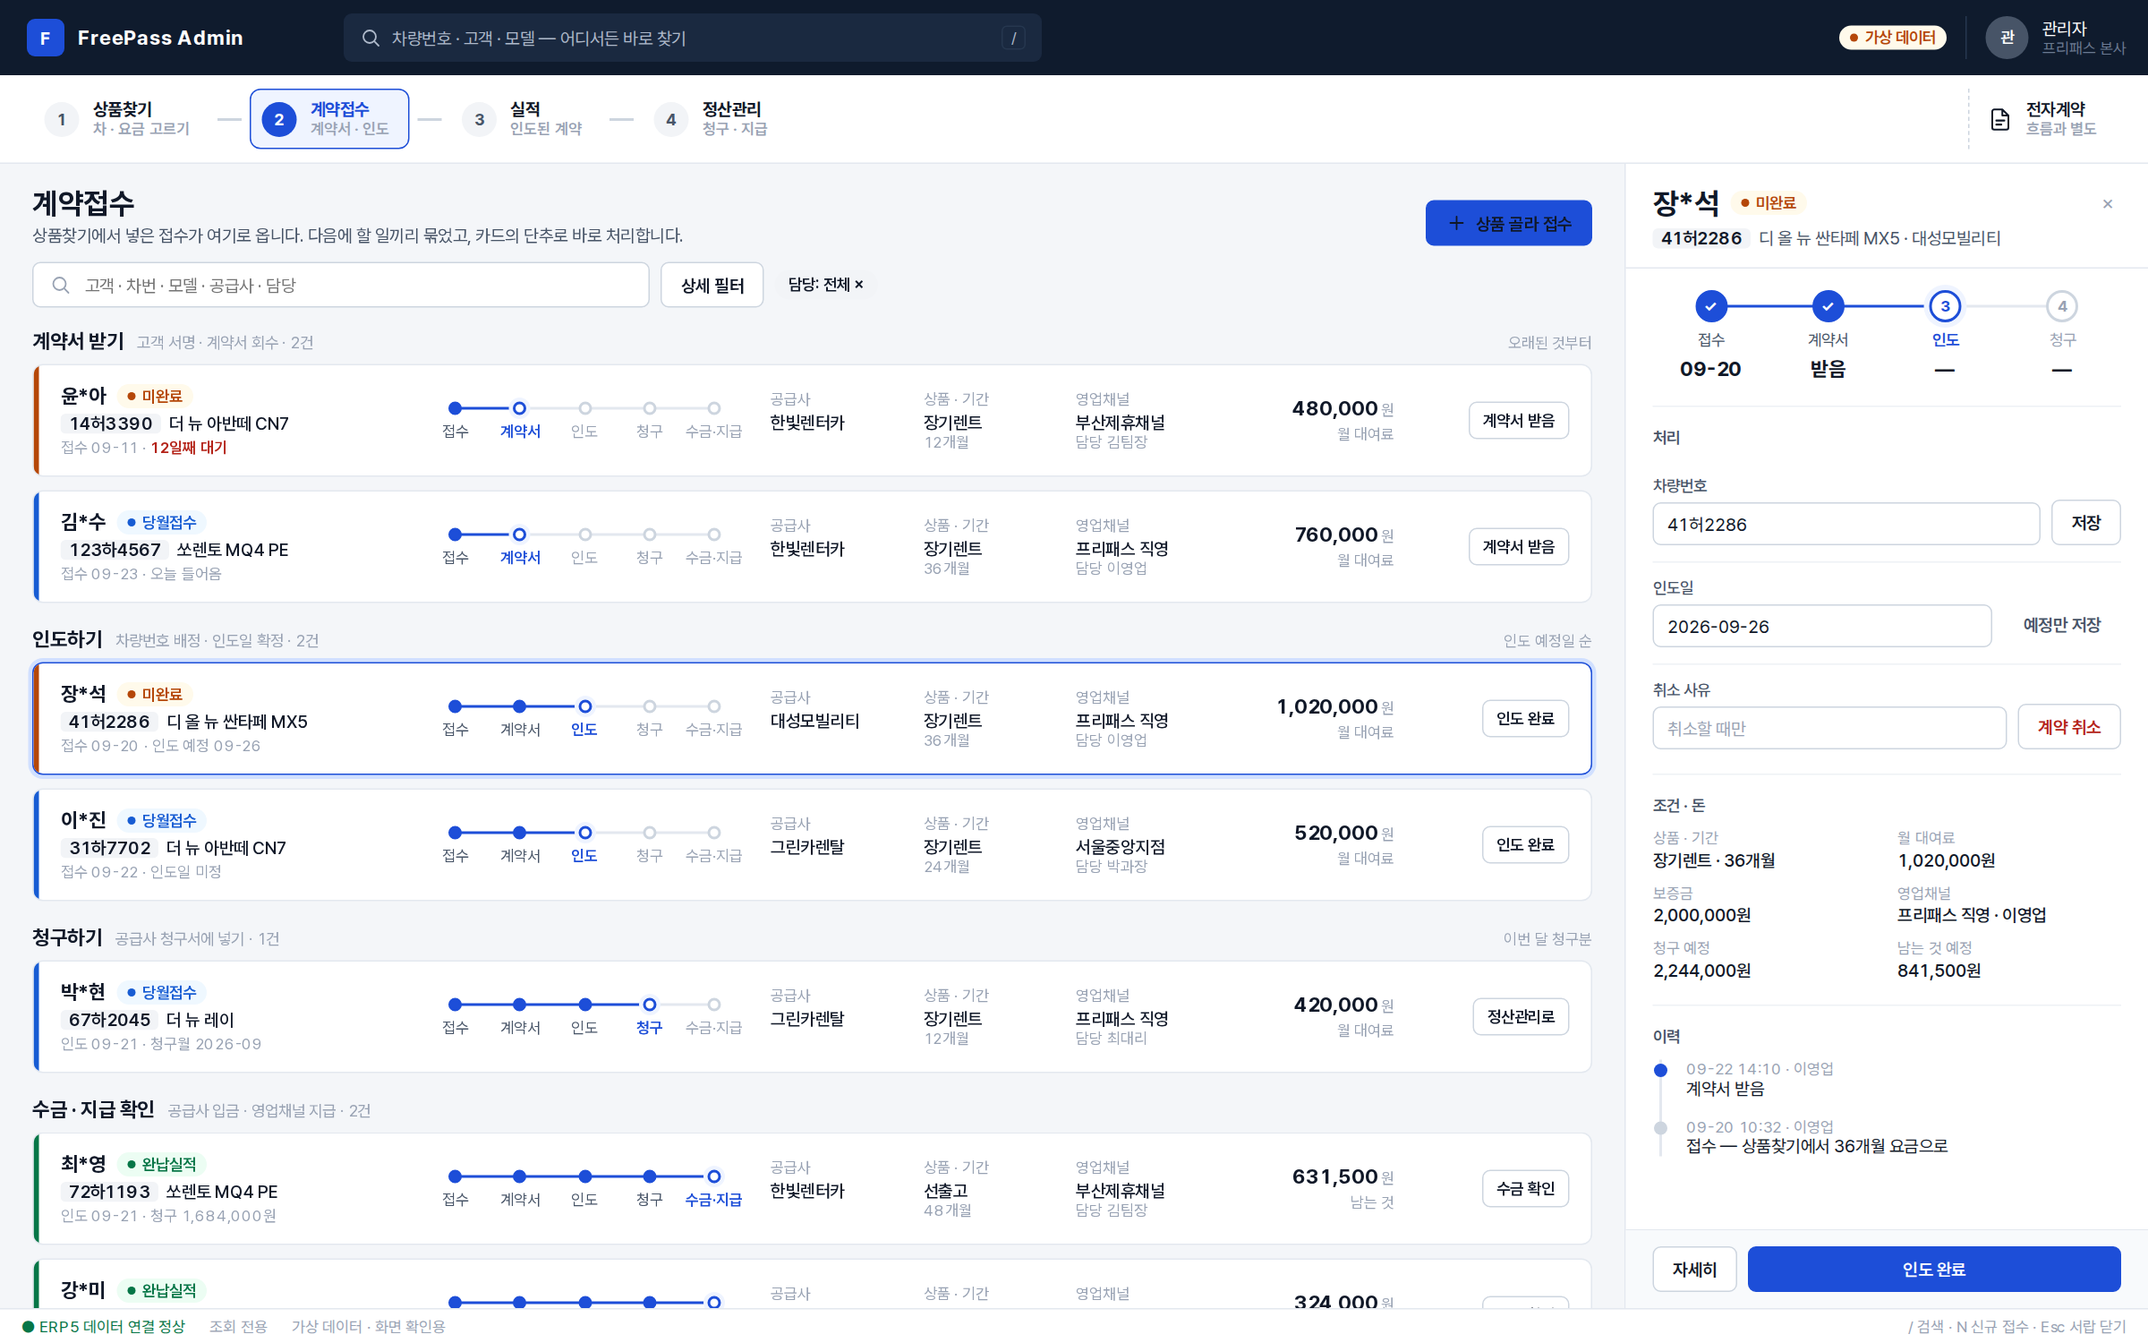
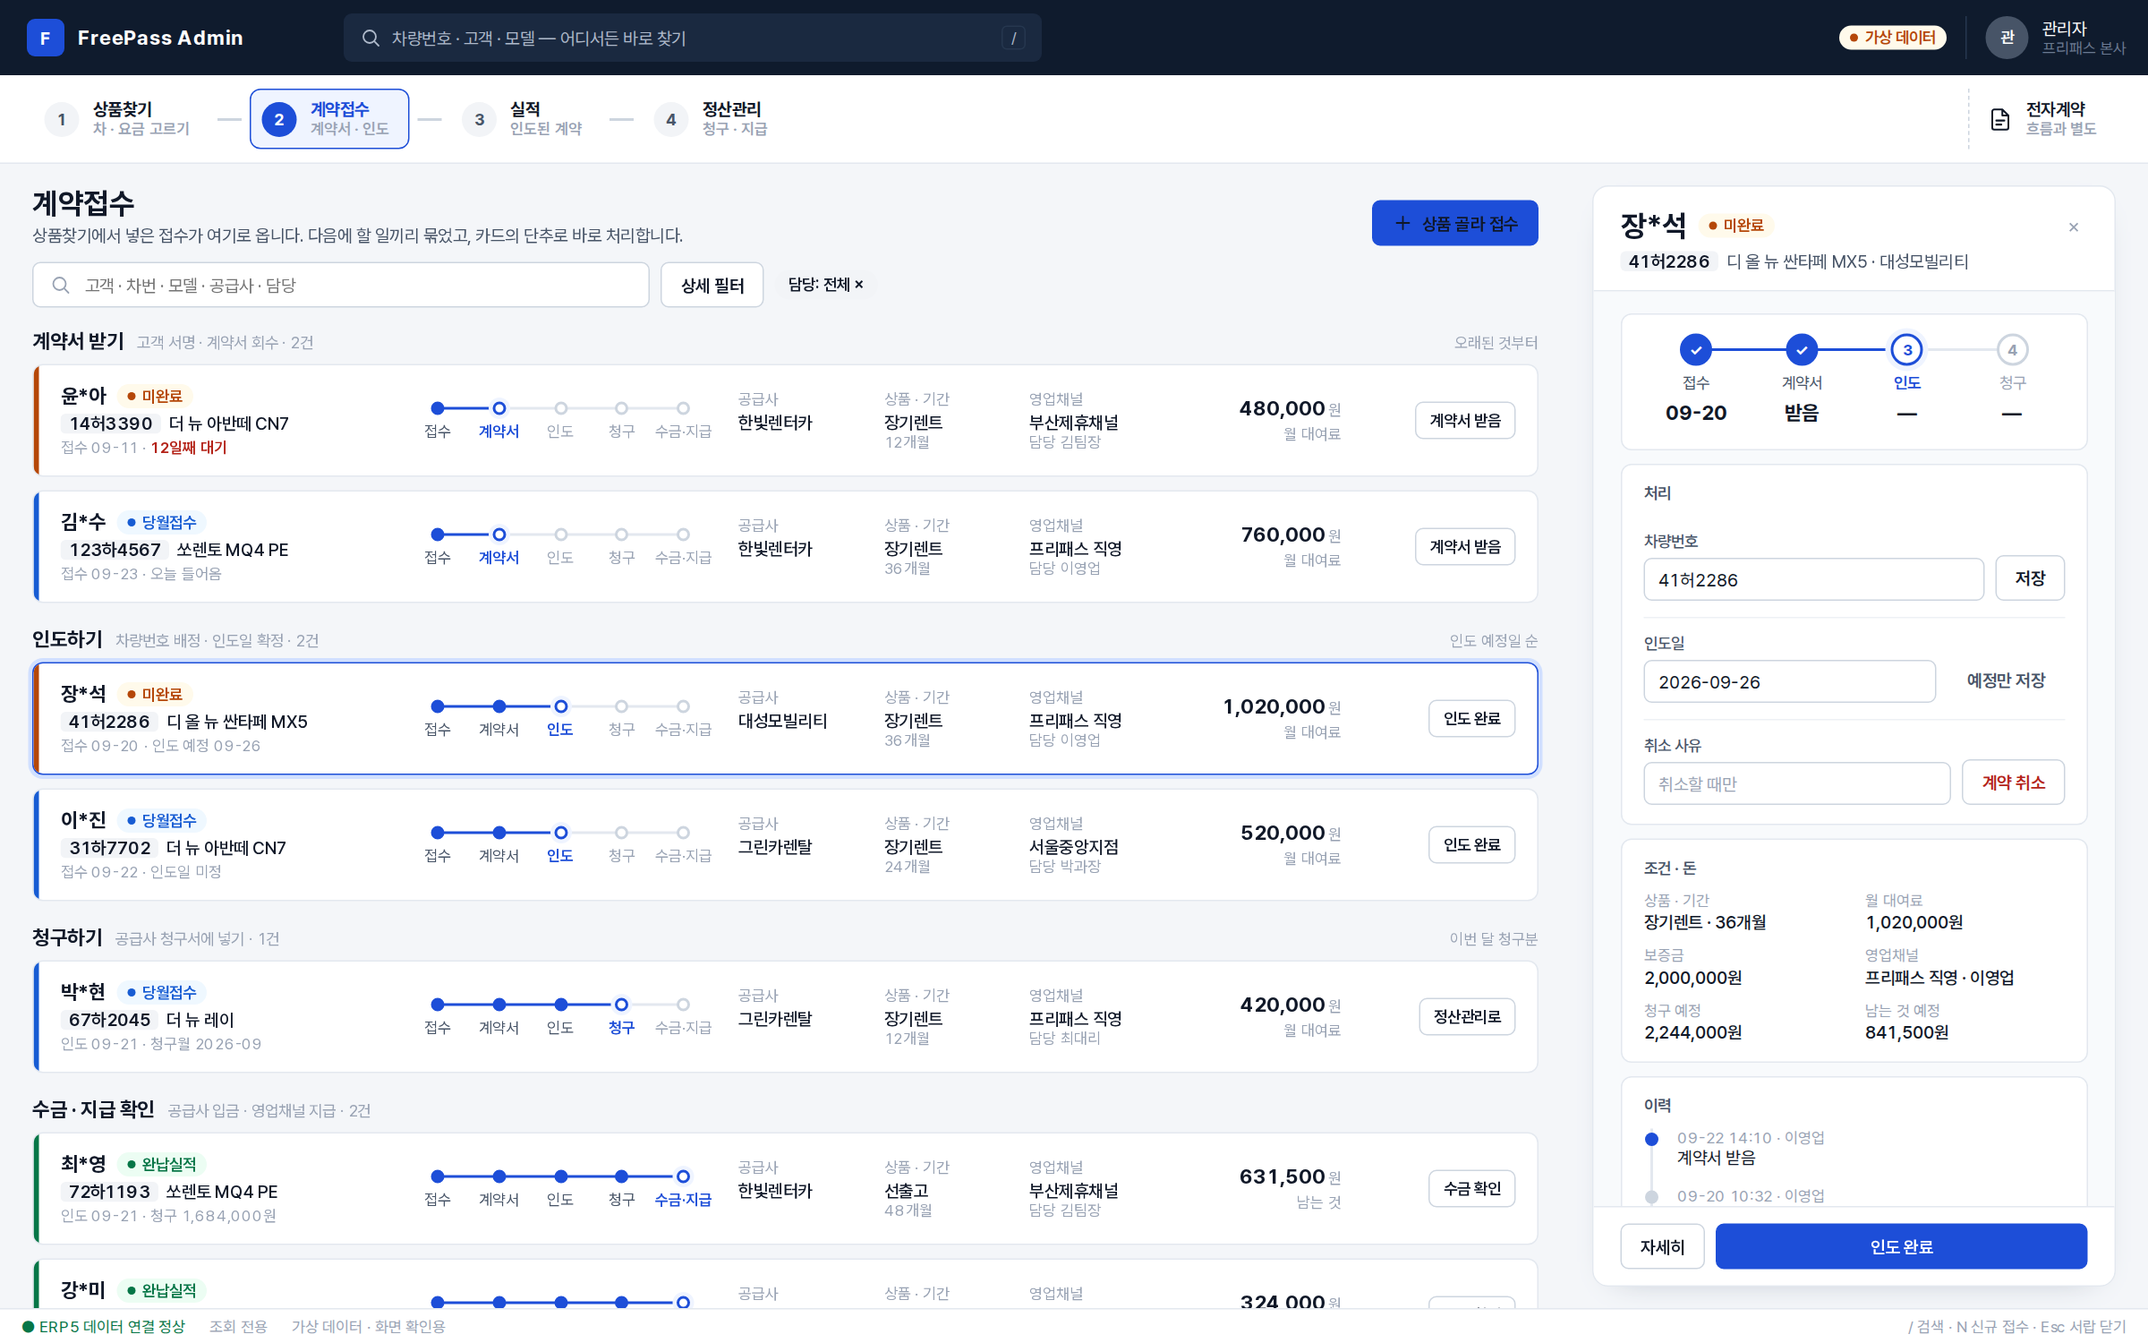
[Claude] 시안 C — 카드로 통일(칸 · 서랍 = 큰 카드, 정보 묶음 = 작은 카드), 폰 포함
Claude-Session: https://claude.ai/code/session_01VHqvSXhUy82o1cFFrYMP3F

diff --git a/design/erp-standard/proposals/admin-fit/index.html b/design/erp-standard/proposals/admin-fit/index.html
@@ -85,6 +85,7 @@
   <section class="fpa-col" aria-label="요금 고르기">
     <div class="fpa-col-head" data-state="done"><span class="fpa-col-no">✓</span><span><b>요금 고르기</b><small>기간을 누르면 그 요금이 접수로 간다</small></span></div>
     <div class="fpa-col-body">
+      <div class="fpa-card">
       <div class="fpa-photo"><svg viewBox="0 0 120 60" aria-hidden="true"><path d="M8 42h104M14 42l6-14c2-5 6-8 12-9l22-3c8-1 16 1 22 6l12 10 14 3c4 1 6 4 6 7M30 42a8 8 0 1 0 16 0M78 42a8 8 0 1 0 16 0M40 20l4 14h24l-6-15"/></svg></div>
       <h2 class="fpa-detail-name">쏘렌토 MQ4 PE <span class="erp-badge erp-badge--ok">즉시출고</span></h2>
       <p class="fpa-detail-sub"><b>123하4567</b>기아 · 시그니처 · 한빛렌터카</p>
@@ -94,15 +95,16 @@
         <div><dt>색상</dt><dd>스노우화이트펄 / 블랙</dd></div>
         <div><dt>상품구분</dt><dd>중고렌트</dd></div>
       </dl>
-      <div class="fpa-sec">
+      </div>
+      <div class="fpa-card">
         <p class="fpa-sec-title">기간별 요금 · 남는 것(청구 − 지급) — ERP5 수수료표로 미리 셈</p>
         <ul class="fpa-offers">
-          <li class="fpa-offer" aria-pressed="false"><b>24개월</b><span class="fpa-offer-sub"><span>보증금 없음 · 조건 밖(80만원 초과)</span><em>남는 것 412,000원</em></span><strong>820,000원</strong></li>
-          <li class="fpa-offer" aria-pressed="true"><b>36개월</b><span class="fpa-offer-sub"><span>보증금 없음 · 이 요금으로 접수</span><em>남는 것 631,500원<span class="erp-tag erp-tag--primary">가장 많이 남음</span></em></span><strong>760,000원</strong></li>
+          <li class="fpa-offer" aria-pressed="false"><b>24개월</b><span class="fpa-offer-sub"><span>보증금 없음 · 조건 밖</span><em>남는 것 412,000원</em></span><strong>820,000원</strong></li>
+          <li class="fpa-offer" aria-pressed="true"><b>36개월</b><span class="fpa-offer-sub"><span>보증금 없음 · 이 요금으로</span><em>남는 것 631,500원<span class="erp-tag erp-tag--primary">최고</span></em></span><strong>760,000원</strong></li>
           <li class="fpa-offer" aria-pressed="false"><b>48개월</b><span class="fpa-offer-sub"><span>보증금 없음</span><em>남는 것 588,000원</em></span><strong>720,000원</strong></li>
         </ul>
       </div>
-      <div class="fpa-sec">
+      <div class="fpa-card">
         <p class="fpa-sec-title">우대조건 · 정책</p>
         <span class="erp-tags"><span class="erp-tag erp-tag--primary">분납가능</span><span class="erp-tag erp-tag--primary">만21세</span><span class="erp-tag">사고 1회 · 경미</span></span>
       </div>
@@ -124,7 +126,8 @@
         </dl>
         <small>ERP5 수수료표 · 기준 월 대여료 · 남는 것 631,500원. 다르게 하려면 «더 넣기»에서 고침(사유).</small>
       </div>
-      <div class="fpa-form">
+      <div class="fpa-card fpa-form">
+        <p class="fpa-sec-title fpa-wide">고객 · 영업</p>
         <label class="erp-field fpa-wide fpa-suggest-wrap"><span class="erp-label">고객 <em class="erp-req">*</em></span><input class="erp-input erp-input--focus" value="김민"><ul class="fpa-suggest" role="listbox" aria-label="고객 찾기">
           <li role="option" aria-selected="true"><span><b>김민수</b><small>이전 접수 1건 · 2025-11 캐스퍼 · 프리패스 직영 · 이영업</small></span><kbd>Enter</kbd></li>
           <li role="option"><span><b>김민지</b><small>이전 접수 1건 · 2026-03 더 뉴 레이 · 서울중앙지점 · 박과장</small></span></li>
@@ -137,7 +140,7 @@
         <label class="erp-field fpa-wide"><span class="erp-label">계약방식</span><div class="erp-seg" role="group" aria-label="계약방식"><button type="button" aria-pressed="true">개인</button><button type="button" aria-pressed="false">개인사업자</button><button type="button" aria-pressed="false">법인</button></div></label>
         <div class="fpa-more"><b>+ 더 넣기</b> — 프로모션 · 계약서 받음 · 인도일 · 메모 (지금 몰라도 됩니다)</div>
       </div>
-      <ul class="fpa-checks" aria-label="저장 전 확인">
+      <ul class="fpa-card fpa-checks" aria-label="저장 전 확인">
         <li><span><b>123하4567</b> — 진행 중인 접수 없음 (중복 아님)</span></li>
         <li><span><b>36개월 760,000원</b> — ERP5 요금과 같음 · 09-23 10:02 기준</span></li>
         <li data-tone="warn"><span><b>분납가능</b> 차 — 분납으로 바꾸면 청구가 회차마다 나뉩니다</span></li>

diff --git a/design/erp-standard/proposals/admin-fit/phone.html b/design/erp-standard/proposals/admin-fit/phone.html
@@ -29,10 +29,10 @@
 <div><p class="fpa-phone-cap"><b>2</b>요금 고르기</p><div class="fpa-phone">
   <div class="fpa-phone-top"><span class="fpa-phone-back">‹ 목록</span> <b>쏘렌토 MQ4 PE</b><div class="fpa-dots"><span data-state="done">1 차</span><span aria-current="step">2 요금</span><span>3 접수</span></div></div>
   <div class="fpa-phone-body">
-    <div class="fpa-photo"><svg viewBox="0 0 120 60" aria-hidden="true"><path d="M8 42h104M14 42l6-14c2-5 6-8 12-9l22-3c8-1 16 1 22 6l12 10 14 3c4 1 6 4 6 7M30 42a8 8 0 1 0 16 0M78 42a8 8 0 1 0 16 0M40 20l4 14h24l-6-15"/></svg></div>
+    <div class="fpa-card"><div class="fpa-photo"><svg viewBox="0 0 120 60" aria-hidden="true"><path d="M8 42h104M14 42l6-14c2-5 6-8 12-9l22-3c8-1 16 1 22 6l12 10 14 3c4 1 6 4 6 7M30 42a8 8 0 1 0 16 0M78 42a8 8 0 1 0 16 0M40 20l4 14h24l-6-15"/></svg></div>
     <p class="fpa-detail-sub"><b>123하4567</b>기아 · 시그니처 · 한빛렌터카</p>
-    <dl class="erp-props"><div><dt>연식 · 주행</dt><dd>2024 · 12,100km</dd></div><div><dt>색상</dt><dd>스노우화이트펄</dd></div></dl>
-    <div class="fpa-sec"><p class="fpa-sec-title">기간별 요금 · 남는 것</p>
+    <dl class="erp-props"><div><dt>연식 · 주행</dt><dd>2024 · 12,100km</dd></div><div><dt>색상</dt><dd>스노우화이트펄</dd></div></dl></div>
+    <div class="fpa-card"><p class="fpa-sec-title">기간별 요금 · 남는 것</p>
     <ul class="fpa-offers">
       <li class="fpa-offer" aria-pressed="false"><b>24개월</b><span class="fpa-offer-sub"><em>남는 것 412,000</em></span><strong>820,000</strong></li>
       <li class="fpa-offer" aria-pressed="true"><b>36개월</b><span class="fpa-offer-sub"><em>남는 것 631,500</em></span><strong>760,000</strong></li>
@@ -46,13 +46,13 @@
   <div class="fpa-phone-body">
     <div class="fpa-picked"><div class="fpa-picked-top"><b>쏘렌토 · 36개월</b><span>자동</span></div><p>123하4567 · 한빛렌터카</p>
       <dl><div><dt>월 대여료</dt><dd>760,000원</dd></div><div><dt>남는 것</dt><dd>631,500원</dd></div></dl></div>
-    <div class="fpa-form">
+    <div class="fpa-card fpa-form">
       <label class="erp-field fpa-wide"><span class="erp-label">고객 <em class="erp-req">*</em></span><input class="erp-input" value="김민수"></label>
       <label class="erp-field"><span class="erp-label">영업채널 <em class="erp-req">*</em></span><span class="erp-input">프리패스 직영</span></label>
       <label class="erp-field"><span class="erp-label">담당 <em class="erp-req">*</em></span><span class="erp-input">이영업</span></label>
       <label class="erp-field fpa-wide"><span class="erp-label">결제</span><div class="erp-seg" role="group" aria-label="분납여부"><button type="button" aria-pressed="true">일시납</button><button type="button" aria-pressed="false">분납</button></div></label>
     </div>
-    <ul class="fpa-checks"><li><span><b>123하4567</b> 중복 없음</span></li><li><span>요금 ERP5 와 같음</span></li></ul>
+    <ul class="fpa-card fpa-checks"><li><span><b>123하4567</b> 중복 없음</span></li><li><span>요금 ERP5 와 같음</span></li></ul>
   </div>
   <div class="fpa-phone-bar"><button class="erp-btn" type="button">‹</button><button class="erp-btn erp-btn--primary" type="submit">접수 저장 · 필수 3/3</button></div>
 </div></div>

diff --git a/design/erp-standard/proposals/admin-fit/admin-fit.css b/design/erp-standard/proposals/admin-fit/admin-fit.css
@@ -213,3 +213,37 @@
 .fpa-phone-back { color: var(--erp-color-nav-text); font-size: var(--erp-fs-caption); }
 .fpa-save kbd { margin-left: 6px; padding: 0 5px; border: 1px solid var(--erp-color-on-primary); border-radius: var(--erp-r-sm); font-family: inherit; font-size: var(--erp-fs-caption); font-weight: var(--erp-fw-regular); opacity: .8; }
 .fpa-phones-page.erp-app { display: block; height: auto; min-width: 0; }
+
+/* ── 카드로 통일 (대표 2026-09-23 「카드타입으로 통일해봐」) ──
+ *   화면의 모든 덩어리 = 카드 한 장. 칸(① ② ③ · 서랍)은 바탕 위에 뜬 큰 카드, 칸 안의 정보 묶음(차 정보 · 요금 · 우대조건 ·
+ *   고객 · 확인 · 다음 걸음)은 우묵한 바탕 위의 작은 카드. 목록 카드와 같은 선 · 모서리 · 그림자를 쓴다. */
+.fpa-work { gap: var(--erp-sp-4); padding: var(--erp-sp-4) var(--erp-sp-6); background: var(--erp-color-bg); }
+.fpa-col, .fpa-col:first-child { border: 1px solid var(--erp-color-line); border-radius: calc(var(--erp-r-lg) * 1.5); background: var(--erp-color-surface); box-shadow: 0 8px 24px -18px var(--erp-color-text-3); overflow: visible; }
+.fpa-col-head { border-radius: calc(var(--erp-r-lg) * 1.5) calc(var(--erp-r-lg) * 1.5) 0 0; }
+.fpa-col + .fpa-col::before { left: -20px; }
+.fpa-col-body, .fpa-col:first-child .fpa-col-body { background: var(--erp-color-sunken); }
+.fpa-col .erp-searchbar { border-bottom: 1px solid var(--erp-color-line); }
+.fpa-save { border-radius: 0 0 calc(var(--erp-r-lg) * 1.5) calc(var(--erp-r-lg) * 1.5); background: var(--erp-color-surface); }
+.fpa-card { margin: 0 0 10px; padding: 14px var(--erp-sp-4); border: 1px solid var(--erp-color-line); border-radius: var(--erp-r-lg); background: var(--erp-color-surface); }
+.fpa-card:last-child { margin-bottom: 0; }
+.fpa-card .fpa-photo { height: 130px; }
+.fpa-card .fpa-detail-sub { margin-bottom: var(--erp-sp-3); }
+.fpa-form.fpa-card { margin-top: 10px; }
+.fpa-form .fpa-sec-title { margin: 0; }
+.fpa-picked { margin-bottom: 10px; }
+.fpa-checks.fpa-card { margin-top: 10px; padding: 10px 14px; }
+.fpa-next.fpa-card { margin-top: 10px; }
+.fpa-next li:last-child { border-bottom: 0; }
+.fpa-saved { margin-bottom: 0; }
+/* 계약접수 — 서랍도 뜬 카드, 서랍 안 묶음도 카드 */
+.fpa-main { gap: var(--erp-sp-4); padding-right: var(--erp-sp-6); }
+.fpa-drawer { margin: var(--erp-sp-4) 0; border: 1px solid var(--erp-color-line); border-radius: calc(var(--erp-r-lg) * 1.5); box-shadow: 0 8px 24px -18px var(--erp-color-text-3); overflow: hidden; }
+.fpa-drawer-body { background: var(--erp-color-sunken); }
+.fpa-drawer-body section, .fpa-drawer-body section + section { margin: 0 0 10px; padding: 14px var(--erp-sp-4); border: 1px solid var(--erp-color-line); border-radius: var(--erp-r-lg); background: var(--erp-color-surface); }
+.fpa-drawer-foot { background: var(--erp-color-surface); }
+.fpa-done { background: var(--erp-color-surface); border-style: solid; border-color: var(--erp-color-line); }
+/* 폰 — 같은 카드 */
+.fpa-phone-body { background: var(--erp-color-sunken); }
+.fpa-phone-body .fpa-card { padding: var(--erp-sp-3); }
+.fpa-col .erp-searchbar { flex-wrap: wrap; }
+.fpa-col .erp-search { flex: 1 1 100%; }

diff --git a/design/erp-standard/proposals/admin-fit/saved.html b/design/erp-standard/proposals/admin-fit/saved.html
@@ -85,6 +85,7 @@
   <section class="fpa-col" aria-label="요금 고르기">
     <div class="fpa-col-head" data-state="done"><span class="fpa-col-no">✓</span><span><b>요금 고르기</b><small>기간을 누르면 그 요금이 접수로 간다</small></span></div>
     <div class="fpa-col-body">
+      <div class="fpa-card">
       <div class="fpa-photo"><svg viewBox="0 0 120 60" aria-hidden="true"><path d="M8 42h104M14 42l6-14c2-5 6-8 12-9l22-3c8-1 16 1 22 6l12 10 14 3c4 1 6 4 6 7M30 42a8 8 0 1 0 16 0M78 42a8 8 0 1 0 16 0M40 20l4 14h24l-6-15"/></svg></div>
       <h2 class="fpa-detail-name">쏘렌토 MQ4 PE <span class="erp-badge erp-badge--ok">즉시출고</span></h2>
       <p class="fpa-detail-sub"><b>123하4567</b>기아 · 시그니처 · 한빛렌터카</p>
@@ -94,15 +95,16 @@
         <div><dt>색상</dt><dd>스노우화이트펄 / 블랙</dd></div>
         <div><dt>상품구분</dt><dd>중고렌트</dd></div>
       </dl>
-      <div class="fpa-sec">
+      </div>
+      <div class="fpa-card">
         <p class="fpa-sec-title">기간별 요금 · 남는 것(청구 − 지급) — ERP5 수수료표로 미리 셈</p>
         <ul class="fpa-offers">
-          <li class="fpa-offer" aria-pressed="false"><b>24개월</b><span class="fpa-offer-sub"><span>보증금 없음 · 조건 밖(80만원 초과)</span><em>남는 것 412,000원</em></span><strong>820,000원</strong></li>
-          <li class="fpa-offer" aria-pressed="true"><b>36개월</b><span class="fpa-offer-sub"><span>보증금 없음 · 이 요금으로 접수</span><em>남는 것 631,500원<span class="erp-tag erp-tag--primary">가장 많이 남음</span></em></span><strong>760,000원</strong></li>
+          <li class="fpa-offer" aria-pressed="false"><b>24개월</b><span class="fpa-offer-sub"><span>보증금 없음 · 조건 밖</span><em>남는 것 412,000원</em></span><strong>820,000원</strong></li>
+          <li class="fpa-offer" aria-pressed="true"><b>36개월</b><span class="fpa-offer-sub"><span>보증금 없음 · 이 요금으로</span><em>남는 것 631,500원<span class="erp-tag erp-tag--primary">최고</span></em></span><strong>760,000원</strong></li>
           <li class="fpa-offer" aria-pressed="false"><b>48개월</b><span class="fpa-offer-sub"><span>보증금 없음</span><em>남는 것 588,000원</em></span><strong>720,000원</strong></li>
         </ul>
       </div>
-      <div class="fpa-sec">
+      <div class="fpa-card">
         <p class="fpa-sec-title">우대조건 · 정책</p>
         <span class="erp-tags"><span class="erp-tag erp-tag--primary">분납가능</span><span class="erp-tag erp-tag--primary">만21세</span><span class="erp-tag">사고 1회 · 경미</span></span>
       </div>
@@ -122,7 +124,7 @@
           <div><dt>남는 것 (예정)</dt><dd>631,500원</dd></div>
         </dl>
       </div>
-      <div class="fpa-next">
+      <div class="fpa-card fpa-next">
         <p>이 건의 다음 걸음 — 계약접수에서 이어집니다</p>
         <ol>
           <li><span>계약서 받기<small> · 고객 서명 · 계약서 회수</small></span><a class="erp-btn erp-btn--sm" href="queue.html">계약접수에서 열기</a></li>

diff --git a/design/erp-standard/proposals/admin-fit/README.md b/design/erp-standard/proposals/admin-fit/README.md
@@ -40,6 +40,17 @@
 | 저장 직후 | 같은 자리에 **접수번호 + 이 건의 다음 걸음 4개**(계약서 → 인도 → 청구 → 수금·지급) · «같은 고객 · 다른 차» · «다음 접수». 목록에는 «방금 접수» 표시, 걸어 둔 조건은 그대로 | 저장하고 끝이 아니라 다음 할 일로 이어진다 |
 | 폰 | 세 칸을 한 장씩. 위 점 = 지금 칸, 아래 단추 = 다음 걸음(«쏘렌토 요금 보기 ›» → «36개월로 접수 ›» → «접수 저장»). 같은 부품 | 폰으로 그대로 넘어간다 |
 
+## 카드로 통일 (대표 2026-09-23 「카드타입으로 통일해봐」)
+
+화면의 모든 덩어리 = 카드 한 장. 두 층만 쓴다.
+
+| 층 | 무엇 | 모양 |
+|---|---|---|
+| 큰 카드 | 칸 ① ② ③ · 처리 서랍 | 바탕 위에 뜬 카드(둥근 모서리 · 옅은 그림자), 머리 = 번호 + 이름, 바닥 = 단추 줄 |
+| 작은 카드 | 칸 안의 정보 묶음 — 차 목록 한 대 · 차 정보 · 기간별 요금 · 우대조건 · 고른 차 요약 · 고객 · 영업 · 저장 전 확인 · 다음 걸음 · 서랍의 진행 · 처리 · 조건 · 이력 | 우묵한 바탕 위의 흰 카드. 목록 카드와 같은 선 · 모서리 |
+
+폰도 같은 두 층(폰 화면 = 큰 카드, 안의 묶음 = 작은 카드).
+
 ## 계약접수 (`queue.html`)
 
 목록을 날짜가 아니라 다음에 할 일(계약서 받기 · 인도하기 · 청구하기 · 수금·지급 확인)로 묶고, 카드마다 그 일을 하는 단추. 고른 건은 오른쪽 처리 서랍에서 바로 처리.
